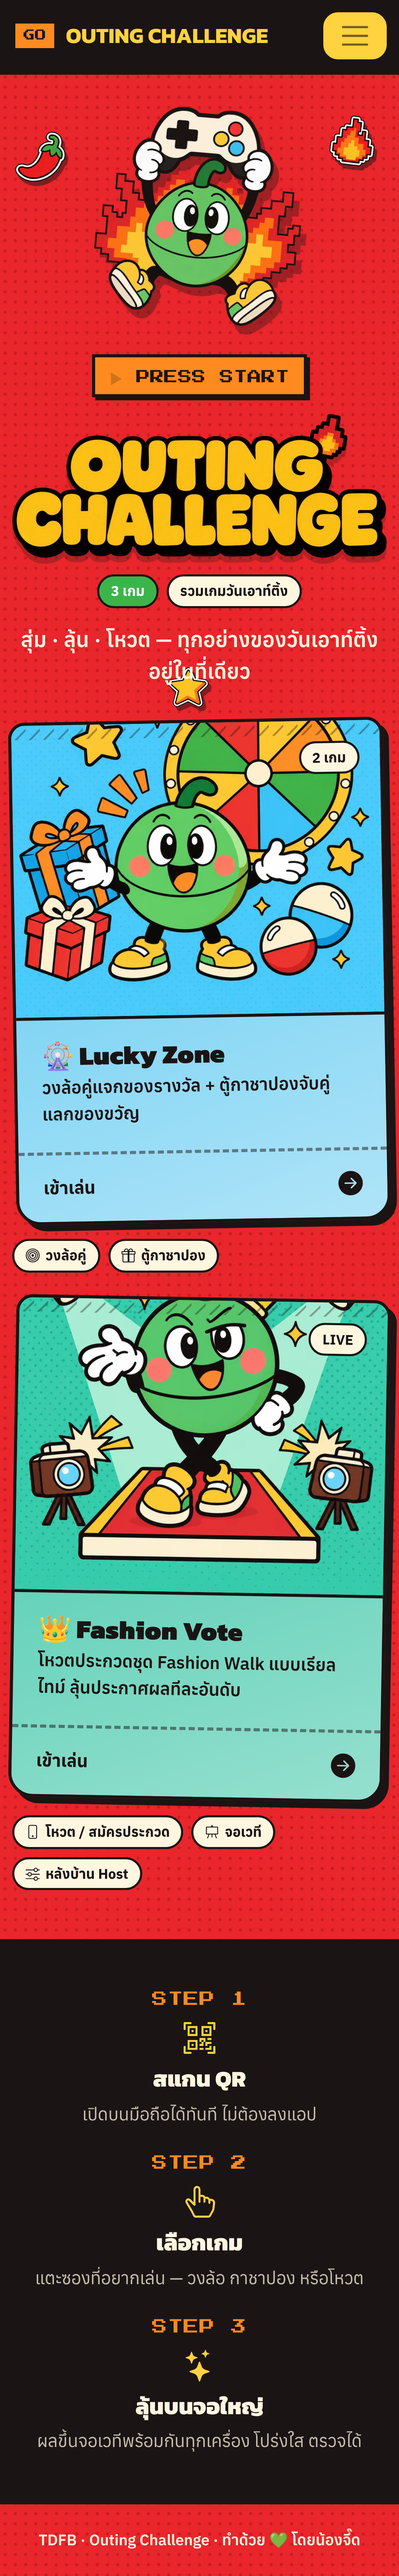
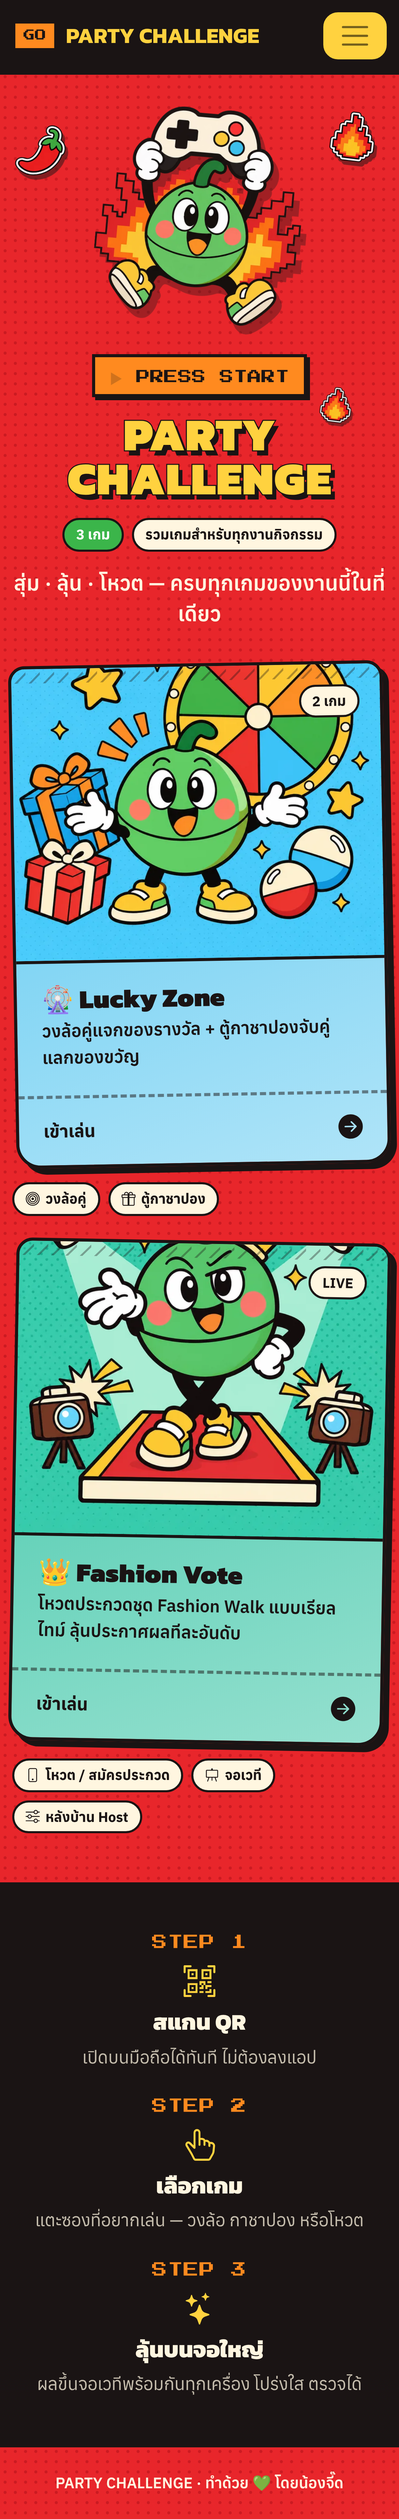
Rebrand to PARTY CHALLENGE so the site can be reused for any event
- Remove every 'outing' from code, UI copy, demo data, CSV filenames,
  served prototypes and docs (docs/handoff kept as historical source)
- site.ts drives the name; CSS wordmark until the new logo image arrives
- Remove old logo image that contained OUTING
- Prompt 7b to edit the logo; style lock forbids event-specific words
- Bump mock storage key so demo data reloads without the old event name
- Save previous status reply to docs/log for follow-up

Claude-Session: https://claude.ai/code/session_01C4zrpFip3FS6PW2GKasSrt

diff --git a/public/prototypes/costume-vote.html b/public/prototypes/costume-vote.html
@@ -278,7 +278,7 @@ function seed(){
   const r=rng(2026), cs=past.contestants, cIds=cs.map(c=>c.slackId);
   users.filter(u=>!cIds.includes(u.id)).forEach((u,i)=>{if(r()<.9){const c=pickWeighted(cs,[4,5,3,2],r);past.votes.push({id:uid('v_'),voterId:u.id,contestantId:c.id,weight:managerIds.includes(u.id)?10:1,at:past.createdAt+60000+i*9000});}});
   past.revealStep=past.contestants.length;
-  const cur={id:'ev_outing26',name:'Outing 2026 ประกวดชุดแฟนซี',status:'registration',durationMin:5,endsAt:null,createdAt:Date.now(),revealStep:0,votes:[],
+  const cur={id:'ev_party26',name:'Party 2026 ประกวดชุดแฟนซี',status:'registration',durationMin:5,endsAt:null,createdAt:Date.now(),revealStep:0,votes:[],
     contestants:[mkC('U07','แม่มดรับงานด่วน','🧙♀',280),mkC('U12','ไดโนเสาร์เดินสายไฟ','🦖',120),mkC('U17','นางฟ้าสายออฟฟิศ','👼',50),mkC('U23','นักบินอวกาศกล่องลัง','🧑🚀',200),mkC('U25','ผีเสื้อราตรี','🦋',310),mkC('U20','โจรสลัดคลังสินค้า','🏴☠',20,'pending')]};
   return{users,managerIds,hostIds:['U01','U02'],events:[cur,past],activeEventId:cur.id};
 }
@@ -486,7 +486,7 @@ function hostEvents(){
     return `<div class="evcard ${active?'active':''}"><div><div class="row" style="gap:8px">${pill(e.status)}<span class="hint">${fmtD(e.createdAt)}</span></div><h3 style="margin-top:6px">${esc(e.name)}</h3>
       <p class="hint">ผู้ประกวด ${approved(e).length} คน, โหวต ${e.votes.length} ครั้ง${w?`, ผู้ชนะ ${esc(w.c.title)} (${esc(w.c.name)}) ${w.score} คะแนน`:''}</p></div>
       <div class="row">${active?'<span class="tag h">กำลังใช้งาน</span>':`<button class="btn sm primary" data-act="setActive" data-id="${e.id}">เปิดดูงานนี้</button><button class="btn sm danger" data-act="delEvent" data-id="${e.id}">ลบ</button>`}</div></div>`;}).join('');
-  return `<div class="stack"><form class="panel row" data-form="newEvent"><div class="field" style="flex:1;min-width:220px"><label for="n-ev">สร้างงานใหม่</label><input id="n-ev" name="name" required placeholder="เช่น Outing 2027 ประกวดชุดธีมยุค 90"></div><button class="btn primary" type="submit" style="align-self:flex-end">สร้างงาน</button></form>
+  return `<div class="stack"><form class="panel row" data-form="newEvent"><div class="field" style="flex:1;min-width:220px"><label for="n-ev">สร้างงานใหม่</label><input id="n-ev" name="name" required placeholder="เช่น Party 2027 ประกวดชุดธีมยุค 90"></div><button class="btn primary" type="submit" style="align-self:flex-end">สร้างงาน</button></form>
     <div class="stack">${cards}</div>
     <div class="row"><button class="btn ghost sm" data-act="resetDemo">ล้างข้อมูลและเริ่มตัวอย่างใหม่</button></div></div>`;
 }

diff --git a/public/prototypes/lucky-wheel-gacha.html b/public/prototypes/lucky-wheel-gacha.html
@@ -203,7 +203,7 @@ details.settings summary{cursor:pointer;font-weight:600;padding:10px 0}
 <!-- ============ HOME ============ -->
 <section class="screen on" id="s-home">
   <div class="hero">
-    <h1>สองเกม หนึ่งลิงก์ สำหรับงาน outing</h1>
+    <h1>สองเกม หนึ่งลิงก์ สำหรับงานกิจกรรม</h1>
     <p>เปิดจากจอบนเวทีก็ได้ ให้ทุกคนสแกนเข้ามาจากมือถือก็ได้ เลือกเกมที่จะเล่นได้เลย</p>
   </div>
   <div class="picker">
@@ -382,7 +382,7 @@ details.settings summary{cursor:pointer;font-weight:600;padding:10px 0}
     <div class="sheet">
       <div class="row" style="justify-content:space-between">
         <div>
-          <h3 style="font-size:22px">ห้อง OUTING-01</h3>
+          <h3 style="font-size:22px">ห้อง ROOM-01</h3>
           <p class="hint" style="margin:4px 0 0" id="h-count">ยังไม่มีคนเข้าห้อง</p>
         </div>
         <button class="btn ghost" id="h-opentab">เปิดมุมพนักงานอีกแท็บ</button>
@@ -811,7 +811,7 @@ $('#btn-csv').addEventListener('click',()=>{
   const csv='\uFEFF'+rows.map(r=>r.map(v=>'"'+String(v).replace(/"/g,'""')+'"').join(',')).join('\n');
   const a=document.createElement('a');
   a.href=URL.createObjectURL(new Blob([csv],{type:'text/csv'}));
-  a.download='outing-lucky-draw.csv'; a.click();
+  a.download='lucky-draw.csv'; a.click();
 });
 $('#btn-clearlog').addEventListener('click',()=>{ logs=[]; store.set('tdfb_logs',logs); renderLog(); toast('ล้างบันทึกแล้ว'); });
 

diff --git a/app/page.tsx b/app/page.tsx
@@ -28,8 +28,14 @@ export default function Home() {
             <div className="col-12 col-lg-7 text-center text-lg-start order-2 order-lg-1">
               <span className="pixel-badge mb-3"><span className="blink">▶</span> PRESS START</span>
               <h1 className="mb-3">
-                {/* eslint-disable-next-line @next/next/no-img-element */}
-                <img src="/brand/logo.webp" alt={site.name} className="hero-logo" width={1200} height={520} />
+                {site.logo
+                  // eslint-disable-next-line @next/next/no-img-element
+                  ? <img src={site.logo} alt={site.name} className="hero-logo" width={1200} height={520} />
+                  : <span className="display-pop d-inline-block position-relative" style={{ fontSize: 'clamp(2.8rem, 9vw, 6.2rem)' }}>
+                      {site.nameLines.map((l, i) => <span key={l}>{i > 0 && <br />}{l}</span>)}
+                      {/* eslint-disable-next-line @next/next/no-img-element */}
+                      <img src={STICKER('flame')} alt="" aria-hidden className="hero-logo-flame" width={256} height={256} />
+                    </span>}
               </h1>
               <div className="d-inline-flex flex-wrap gap-2 justify-content-center mb-3">
                 <span className="chip-pop" style={{ background: 'var(--jalapeno)', color: '#fff' }}>3 เกม</span>
@@ -95,7 +101,7 @@ export default function Home() {
       </section>
 
       <footer className="container py-4 text-center text-cream small fw-semibold">
-        TDFB · Outing Challenge · ทำด้วย 💚 โดยน้องจี๊ด
+        {site.name} · ทำด้วย 💚 โดยน้องจี๊ด
       </footer>
     </main>
   );

diff --git a/lib/site.ts b/lib/site.ts
@@ -3,10 +3,17 @@
 export const MASCOT = (pose: 'hero' | 'wheel' | 'gacha' | 'judge' | 'runway' | 'nervous' | 'winner' | 'sad') => `/brand/mascot/${pose}.webp`;
 export const STICKER = (name: string) => `/brand/stickers/${name}.webp`;
 
+/**
+ * ข้อมูลแบรนด์ — ตั้งใจให้กลางๆ ใช้ซ้ำได้ทุกงาน (ปาร์ตี้ ปีใหม่ งานเลี้ยง กิจกรรมทีม) ห้ามใส่ชื่องานเฉพาะในโค้ด
+ * ชื่องานจริงของแต่ละครั้งตั้งในหลังบ้าน (เช่นชื่อ "งาน" ใน Fashion Vote)
+ * logo: ภาพโลโก้ (ไม่มี = ใช้ตัวหนังสือ CSS แทน) — รอภาพใหม่ตาม docs/CHATGPT-PROMPTS.md Prompt 7
+ */
 export const site = {
-  name: 'OUTING CHALLENGE',
-  nameTh: 'รวมเกมวันเอาท์ติ้ง',
-  tagline: 'สุ่ม · ลุ้น · โหวต — ทุกอย่างของวันเอาท์ติ้งอยู่ในที่เดียว',
+  name: 'PARTY CHALLENGE',
+  nameLines: ['PARTY', 'CHALLENGE'],
+  nameTh: 'รวมเกมสำหรับทุกงานกิจกรรม',
+  tagline: 'สุ่ม · ลุ้น · โหวต — ครบทุกเกมของงานนี้ในที่เดียว',
+  logo: null as string | null,
 };
 
 export type ZoneLink = { href: string; label: string; icon: string; note?: string; mascot?: string };

diff --git a/lib/vote/seed.ts b/lib/vote/seed.ts
@@ -23,7 +23,7 @@ export function seedState(): VoteState {
   });
   const now = Date.now();
   const current: VoteEvent = {
-    id: 'ev_outing', name: 'Outing 2026 · Fashion Walk', status: 'registration', durationMin: 5, endsAt: null, revealStep: 0, createdAt: now,
+    id: 'ev_main', name: 'Fashion Walk 2026', status: 'registration', durationMin: 5, endsAt: null, revealStep: 0, createdAt: now,
     contestants: [
       mk('U07', 'นางฟ้าพริกเผา', '🌶', 0), mk('U16', 'อัศวินกล่องลัง', '📦', 30), mk('U25', 'ราชินีมัทฉะ', '🍵', 120),
       mk('U12', 'ซูเปอร์ฮีโร่ไลน์ผลิต', '🦸', 210), mk('U21', 'ดิสโก้ยุค 80', '🪩', 280), mk('U23', 'แฮกเกอร์สายมู', '🧿', 250),

diff --git a/styles/globals.scss b/styles/globals.scss
@@ -300,3 +300,4 @@ body:has(.stage-root) .navbar-pop { display: none; }
 .stage-controls { position: fixed; right: 1rem; bottom: 1rem; display: flex; gap: .5rem; opacity: .35; transition: opacity .2s;
   &:hover, &:focus-within { opacity: 1; } }
 @media (max-width: 700px) { .stage-ranks.two-col { grid-template-columns: 1fr; } }
+.hero-logo-flame { position: absolute; top: -.35em; right: -.45em; width: .7em; height: auto; filter: drop-shadow(2px 3px 0 rgba($ink, .45)); animation: floaty 2.6s ease-in-out infinite; }

diff --git a/app/lucky/wheel/WheelGame.tsx b/app/lucky/wheel/WheelGame.tsx
@@ -183,7 +183,7 @@ export default function WheelGame() {
     const csv = '' + rows.map((r) => r.map((v) => '"' + String(v).replace(/"/g, '""') + '"').join(',')).join('\n');
     const a = document.createElement('a');
     a.href = URL.createObjectURL(new Blob([csv], { type: 'text/csv' }));
-    a.download = 'outing-lucky-wheel.csv';
+    a.download = 'lucky-wheel.csv';
     a.click();
   };
   const toggleFull = () => {

diff --git a/lib/vote/mock-store.ts b/lib/vote/mock-store.ts
@@ -9,7 +9,7 @@ import { approved, castVote, isOpen, VOTE_ERROR_TH, weightOf } from './logic';
 import { seedState, uid } from './seed';
 import type { Contestant, VoteEvent, VoteState } from './types';
 
-const KEY = 'oc_vote_state_v1';
+const KEY = 'oc_vote_state_v2'; // v2: ข้อมูลตัวอย่างไม่มีชื่องานเฉพาะ
 const ME = 'oc_vote_me';
 const CH = 'oc_vote';
 

diff --git a/docs/CHATGPT-PROMPTS.md b/docs/CHATGPT-PROMPTS.md
@@ -20,7 +20,8 @@
 
 ## Prompt 0 — Style Lock (วางก่อนทุกอย่าง)
 ```
-I'm designing a fun company-outing web app (lucky-draw wheel, gift-exchange gachapon, and a fashion-walk voting game).
+I'm designing a fun, reusable company event web app called "PARTY CHALLENGE" (lucky-draw wheel, gift-exchange gachapon, and a fashion-walk voting game).
+It will be reused for many kinds of events, so never add event-specific words (e.g. "outing", a year, a venue) to any image.
 Use the attached snack bag ONLY as a style reference. Do NOT copy its logo, brand name, characters or text.
 
 Style rules for every image in this chat:
@@ -100,11 +101,24 @@ Wide 16:9 stage background (1920x1080), no text, no characters:
 
 ## Prompt 7 — โลโก้ตัวอักษร (อังกฤษเท่านั้น)
 ```
-Design a wordmark logo "OUTING CHALLENGE" in two lines, chunky rounded heavy letters, mustard yellow fill,
+Design a wordmark logo "PARTY CHALLENGE" in two lines, chunky rounded heavy letters, mustard yellow fill,
 thick black outline, hard offset black shadow, small pixel-flame accent. Transparent background, 1600x800.
-Spell it exactly: O-U-T-I-N-G  C-H-A-L-L-E-N-G-E.
+Spell it exactly: P-A-R-T-Y  C-H-A-L-L-E-N-G-E.
 ```
 → `logo.png` (ถ้าตัวสะกดเพี้ยน ไม่ต้องใช้ — โค้ดทำโลโก้ด้วย CSS ได้อยู่แล้ว)
+
+## Prompt 7b — แก้โลโก้เดิมเป็น PARTY CHALLENGE (2026-11-13)
+แนบไฟล์ `OUTING_CHALLENGE_Wordmark_1600x800.png` เดิมแล้ววาง:
+```
+Edit the attached wordmark logo. Replace the word "OUTING" with "PARTY" so it reads "PARTY CHALLENGE" on two lines
+(line 1: PARTY, line 2: CHALLENGE). Keep EVERYTHING else identical: the same chunky rounded heavy letters,
+mustard yellow fill #FFD23F, thick black outline, hard offset black shadow, the small pixel flame accent
+at the top-right of the first line, transparent background, 1600x800.
+Center line 1 above line 2 (PARTY is shorter than OUTING, so do not leave a gap on the right).
+Spell it exactly: P-A-R-T-Y  C-H-A-L-L-E-N-G-E. No other text, no year, no event name.
+```
+→ ตั้งชื่อ `PARTY_CHALLENGE_Wordmark_1600x800.png` ใส่โฟลเดอร์ "06: Prompt 7" ใน Drive แล้วแจ้ง Claude
+(ถ้าแก้แล้วตัวอักษรเพี้ยน ใช้ Prompt 7 ด้านบนสร้างใหม่แทน — ชื่อในนั้นอัปเดตแล้ว)
 
 ## Prompt 8 — OG image + favicon
 ```
@@ -118,7 +132,7 @@ App icon 512x512: mascot Jeed's face only, mustard circle background, thick outl
 
 ## Prompt 9 — คำพูดบนเว็บ + สคริปต์พิธีกร (ข้อความ ไม่ใช่ภาพ)
 ```
-ช่วยเขียน microcopy ภาษาไทยสำหรับเว็บเกมงานเอาท์ติ้งบริษัท โทนสนุก กวนนิดๆ สุภาพกับผู้ใหญ่ สั้นไม่เกิน 6 คำต่อปุ่ม
+ช่วยเขียน microcopy ภาษาไทยสำหรับเว็บเกมงานกิจกรรมบริษัท (ใช้ได้ทุกงาน ห้ามระบุชื่องาน) โทนสนุก กวนนิดๆ สุภาพกับผู้ใหญ่ สั้นไม่เกิน 6 คำต่อปุ่ม
 ขอเป็นตาราง: จุดที่ใช้ | ข้อความ 3 ตัวเลือก
 จุดที่ใช้: ปุ่มเริ่มหมุนวงล้อ, ปุ่มหยุดวงล้อ, ข้อความตอนได้ของรางวัล, ปุ่มบันทึกแล้วหมุนต่อ,
 หน้ารอเข้าห้องกาชาปอง, ข้อความตอนแคปซูลแตก, ปุ่มโหวต, ข้อความยืนยันโหวต (เตือนว่าแก้ไม่ได้),

diff --git a/docs/PRODUCT.md b/docs/PRODUCT.md
@@ -1,9 +1,9 @@
-# PRODUCT — Outing Challenge (มุมมอง PO)
+# PRODUCT — Party Challenge (มุมมอง PO)
 
 > เอกสารนี้คือ "ความจริงล่าสุด" ของโปรเจกต์ — ถ้าขัดกับ `docs/handoff/*` ให้ยึดไฟล์นี้
 
 ## 1. Vision
-เว็บเดียวสำหรับวันเอาท์ติ้ง เปิดจากมือถือ/โน้ตบุ๊ก/จอเวทีได้หมด รวม 2 โมดูล
+เว็บเดียวสำหรับงานกิจกรรม (ใช้ซ้ำได้ทุกงาน ไม่ผูกกับงานเอาท์ติ้ง) เปิดจากมือถือ/โน้ตบุ๊ก/จอเวทีได้หมด รวม 2 โมดูล
 | โมดูล | เกม | ใครใช้ |
 |---|---|---|
 | **Lucky Zone** | วงล้อคู่ (ชื่อ ↔ ของรางวัล) · ตู้กาชาปองจับคู่แลกของขวัญ | คนคุมเวที + พนักงานทุกคน |
@@ -24,6 +24,7 @@
 | D5 | สุ่มกาชาปอง | `lib/fair-draw.ts` ใช้ร่วม server + หน้าตรวจผล | โปร่งใส ตรวจซ้ำได้ |
 | D6 | ธีม | **Spicy Snack Pack** (ดู `docs/DESIGN.md`) แทนธีม Matchazuki/ม่วงเดิม | ตาม mood ใหม่: สนุก มีพลัง สีสด |
 | D7 | Hosting | **Vercel Hobby (ฟรี) เฉพาะ demo สั้นๆ ไม่มีข้อมูลจริง แล้วลบทิ้ง** → Cloud Run บริษัท (จริง) | ผู้ใช้เลือก 2026-11-12 · demo ใช้ข้อมูลตัวอย่างเท่านั้น ไม่ตั้ง env Slack/Sheet |
+| D9 | ชื่อ/แบรนด์ | **PARTY CHALLENGE** + มาสคอตจี๊ดสีเขียว · ห้ามมีคำเฉพาะงาน (เช่น outing) ในโค้ด/ภาพ | ผู้ใช้เลือก 2026-11-13 เพื่อใช้ซ้ำกับงานอื่น · โลโก้รอภาพใหม่ ระหว่างนี้ใช้ตัวหนังสือ CSS |
 | D8 | ผลวงล้อเข้าชีท | ส่งผ่าน `POST /api/sheet` (secret อยู่ใน env ฝั่ง server) | แก้ข้อ 1–2 ใน handoff SPEC §6 · ไม่ตั้ง env = เก็บในเครื่อง + CSV |
 
 ## 3. ❓ Open questions (ต้องตอบก่อนเริ่ม phase ที่เกี่ยว)
@@ -34,7 +35,7 @@
 | ~~Q3~~ | ~~Vercel demo ใช้บัญชีอะไร~~ | ✅ ตอบแล้ว → D7 | |
 | Q4 | Fashion Vote มีหลายหมวดรางวัลไหม (สวยสุด/ฮาสุด) | Phase 2 data model | 1 หมวด แต่ออกแบบ schema ให้เพิ่มได้ |
 | Q5 | วันงาน / จำนวนคน / wifi สถานที่ | ทดสอบโหลด + แผนสำรอง | 100 คน · มี hotspot สำรอง |
-| Q6 | ชื่อเว็บจริง (ตอนนี้ใช้ OUTING CHALLENGE) | Branding | ใช้ชื่อนี้ (มาสคอต: ✅ จี๊ด สีเขียว — ผู้ใช้ยืนยัน 2026-11-12) |
+| ~~Q6~~ | ~~ชื่อเว็บ~~ | ✅ ตอบแล้ว → D9 | |
 
 ## 4. Roadmap
 | Phase | เป้าหมาย | ส่งมอบ | สถานะ |

diff --git a/docs/log/2026-11-12-phase2a-status.md b/docs/log/2026-11-12-phase2a-status.md
@@ -1,0 +1,26 @@
+# สถานะล่าสุด (บันทึก 2026-11-12) — Phase 2a เสร็จ · รอเตือนเรื่องค้างหลังปิดเรื่องที่เช็ค
+
+## ทำเสร็จแล้ว
+**ใส่ภาพลงหน้าเว็บ**
+- หน้าแรก: โลโก้จริงกับน้องจี๊ดถือจอยเกม สติกเกอร์ลอยรอบๆ และภาพประจำทั้ง 2 โซนบนการ์ด
+- หน้าวงล้อ: น้องจี๊ดเปลี่ยนท่าตามจังหวะ (หมุน → กัดเล็บลุ้น → ชูถ้วย)
+- หน้า 404 และหน้าที่ยังไม่เสร็จใช้ท่าที่ตรงกับเนื้อหา · ไอคอนและภาพแชร์ลิงก์ใช้งานแล้ว
+- ข้อความใช้ตัวเลือก ① จาก `docs/copy.md`
+
+**เว็บโหวต (Phase 2a — ระบบจำลอง: ข้อมูลเก็บในเบราว์เซอร์, login Slack แบบเลือกชื่อเอง)**
+- `/vote` มือถือ: สมัครประกวด + แนบรูป (ย่ออัตโนมัติ) · เห็นสิทธิ์ +10/+1 และเวลาที่เหลือ · เลือก → ยืนยัน → บัตรลงคะแนน
+- `/vote/admin` 4 แท็บ: ภาพรวม · ผู้ประกวด · ผู้ใช้และสิทธิ์ · งานทั้งหมด
+- `/vote/stage`: ระหว่างโหวตโชว์จำนวนคน + เวลา (ไม่โชว์คะแนน) · เปิดผลทีละอันดับจากท้าย (Space/รีโมต) · อันดับ 1 มีพลุ · หมดเวลาปิดเอง
+- ทดสอบอัตโนมัติ 4 แท็บพร้อมกันผ่านทุกข้อ (ยังไม่ได้ลองบนมือถือ/โปรเจกเตอร์จริง)
+
+## ข้อจำกัดตอนนี้
+ข้อมูลอยู่ในเบราว์เซอร์เครื่องเดียว ใช้กับคนทั้งงานหลายเครื่องไม่ได้จนกว่าจะต่อของจริง
+
+## ⏳ เรื่องค้าง (ต้องเตือนผู้ใช้)
+1. **ต่อของจริง Phase 2b — ต้องให้ IT/Admin เตรียม**
+   - Slack App (login + ดึงเมเนเจอร์) + Team ID + ชื่อ user group เมเนเจอร์
+   - Firestore ในโปรเจกต์ GCP ของบริษัท + service account
+   - ฝั่งโค้ดเปลี่ยนแค่ `lib/vote/mock-store.ts` · กฎใน `lib/vote/logic.ts` ใช้ต่อได้เลย
+2. **Phase 3 กาชาปอง — ต้องได้คำตอบก่อนเริ่ม**
+   - แลกของแบบเปิดเผย หรือแบบลับ (Secret Santa)?
+   - ใช้ Slack login หรือพิมพ์ชื่อเอง?

diff --git a/docs/brand/ASSETS.md b/docs/brand/ASSETS.md
@@ -12,7 +12,7 @@
 | 4 กาชาปอง | ตู้ + แคปซูล 3 สถานะ | ตู้ 1 + sprite 3 ช่อง | ✅ ตัดแยกเป็น 4 ไฟล์ | `public/brand/stickers/gacha-machine.webp`, `capsule-{closed,crack,open}.webp` |
 | 5 สติกเกอร์ ×8 | chili, flame, star, crown, trophy, gift, dice, camera | ได้ 2 แผ่น (เนื้อหาเหมือนกัน) | ✅ ใช้แผ่น 1536×768 ตัดเป็น 8 ไฟล์ · แผ่น 1774×887 ซ้ำ ไม่ได้ใช้ | `public/brand/stickers/*.webp` |
 | 6 พื้นหลังเวที | stage-vote, stage-lucky (1920×1080) | ครบ 2 | ✅ กลางจอมืดและโล่ง ตัวเลขใหญ่อ่านง่าย | `public/brand/backgrounds/*.webp` |
-| 7 โลโก้ | OUTING CHALLENGE | 1600×800 โปร่งใส | ✅ สะกดถูก · ขอบดำ + เงาแข็ง | `public/brand/logo.webp` |
+| 7 โลโก้ | OUTING CHALLENGE | 1600×800 โปร่งใส | 🔁 **ต้องทำใหม่** — เปลี่ยนชื่อเป็น PARTY CHALLENGE (2026-11-13) · ลบออกจากเว็บแล้ว ใช้ตัวหนังสือ CSS ชั่วคราว | รอ `public/brand/logo.webp` ใหม่ |
 | 8 OG + icon | og 1200×630, icon 512 | ครบ | ✅ ฝั่งซ้ายโล่งสำหรับข้อความ · ไอคอนอ่านออกที่ 32px (16px เห็นแค่วงกลมเขียว-เหลือง) | `app/opengraph-image.jpg`, `app/icon.png`, `app/apple-icon.png` |
 | 9 ข้อความ | `docs/copy.md` | ✅ | เนื้อหาเดียวกับที่ใส่ใน repo แล้ว | `docs/copy.md` |
 | 10 โปสเตอร์ QR | A4 2480×3508 | ✅ ช่องครีมกลางว่างสำหรับ QR | ไม่ใส่ใน repo (4.3 MB, ใช้พิมพ์) — ใส่ QR + ข้อความด้วย Canva ก่อนพิมพ์ |
